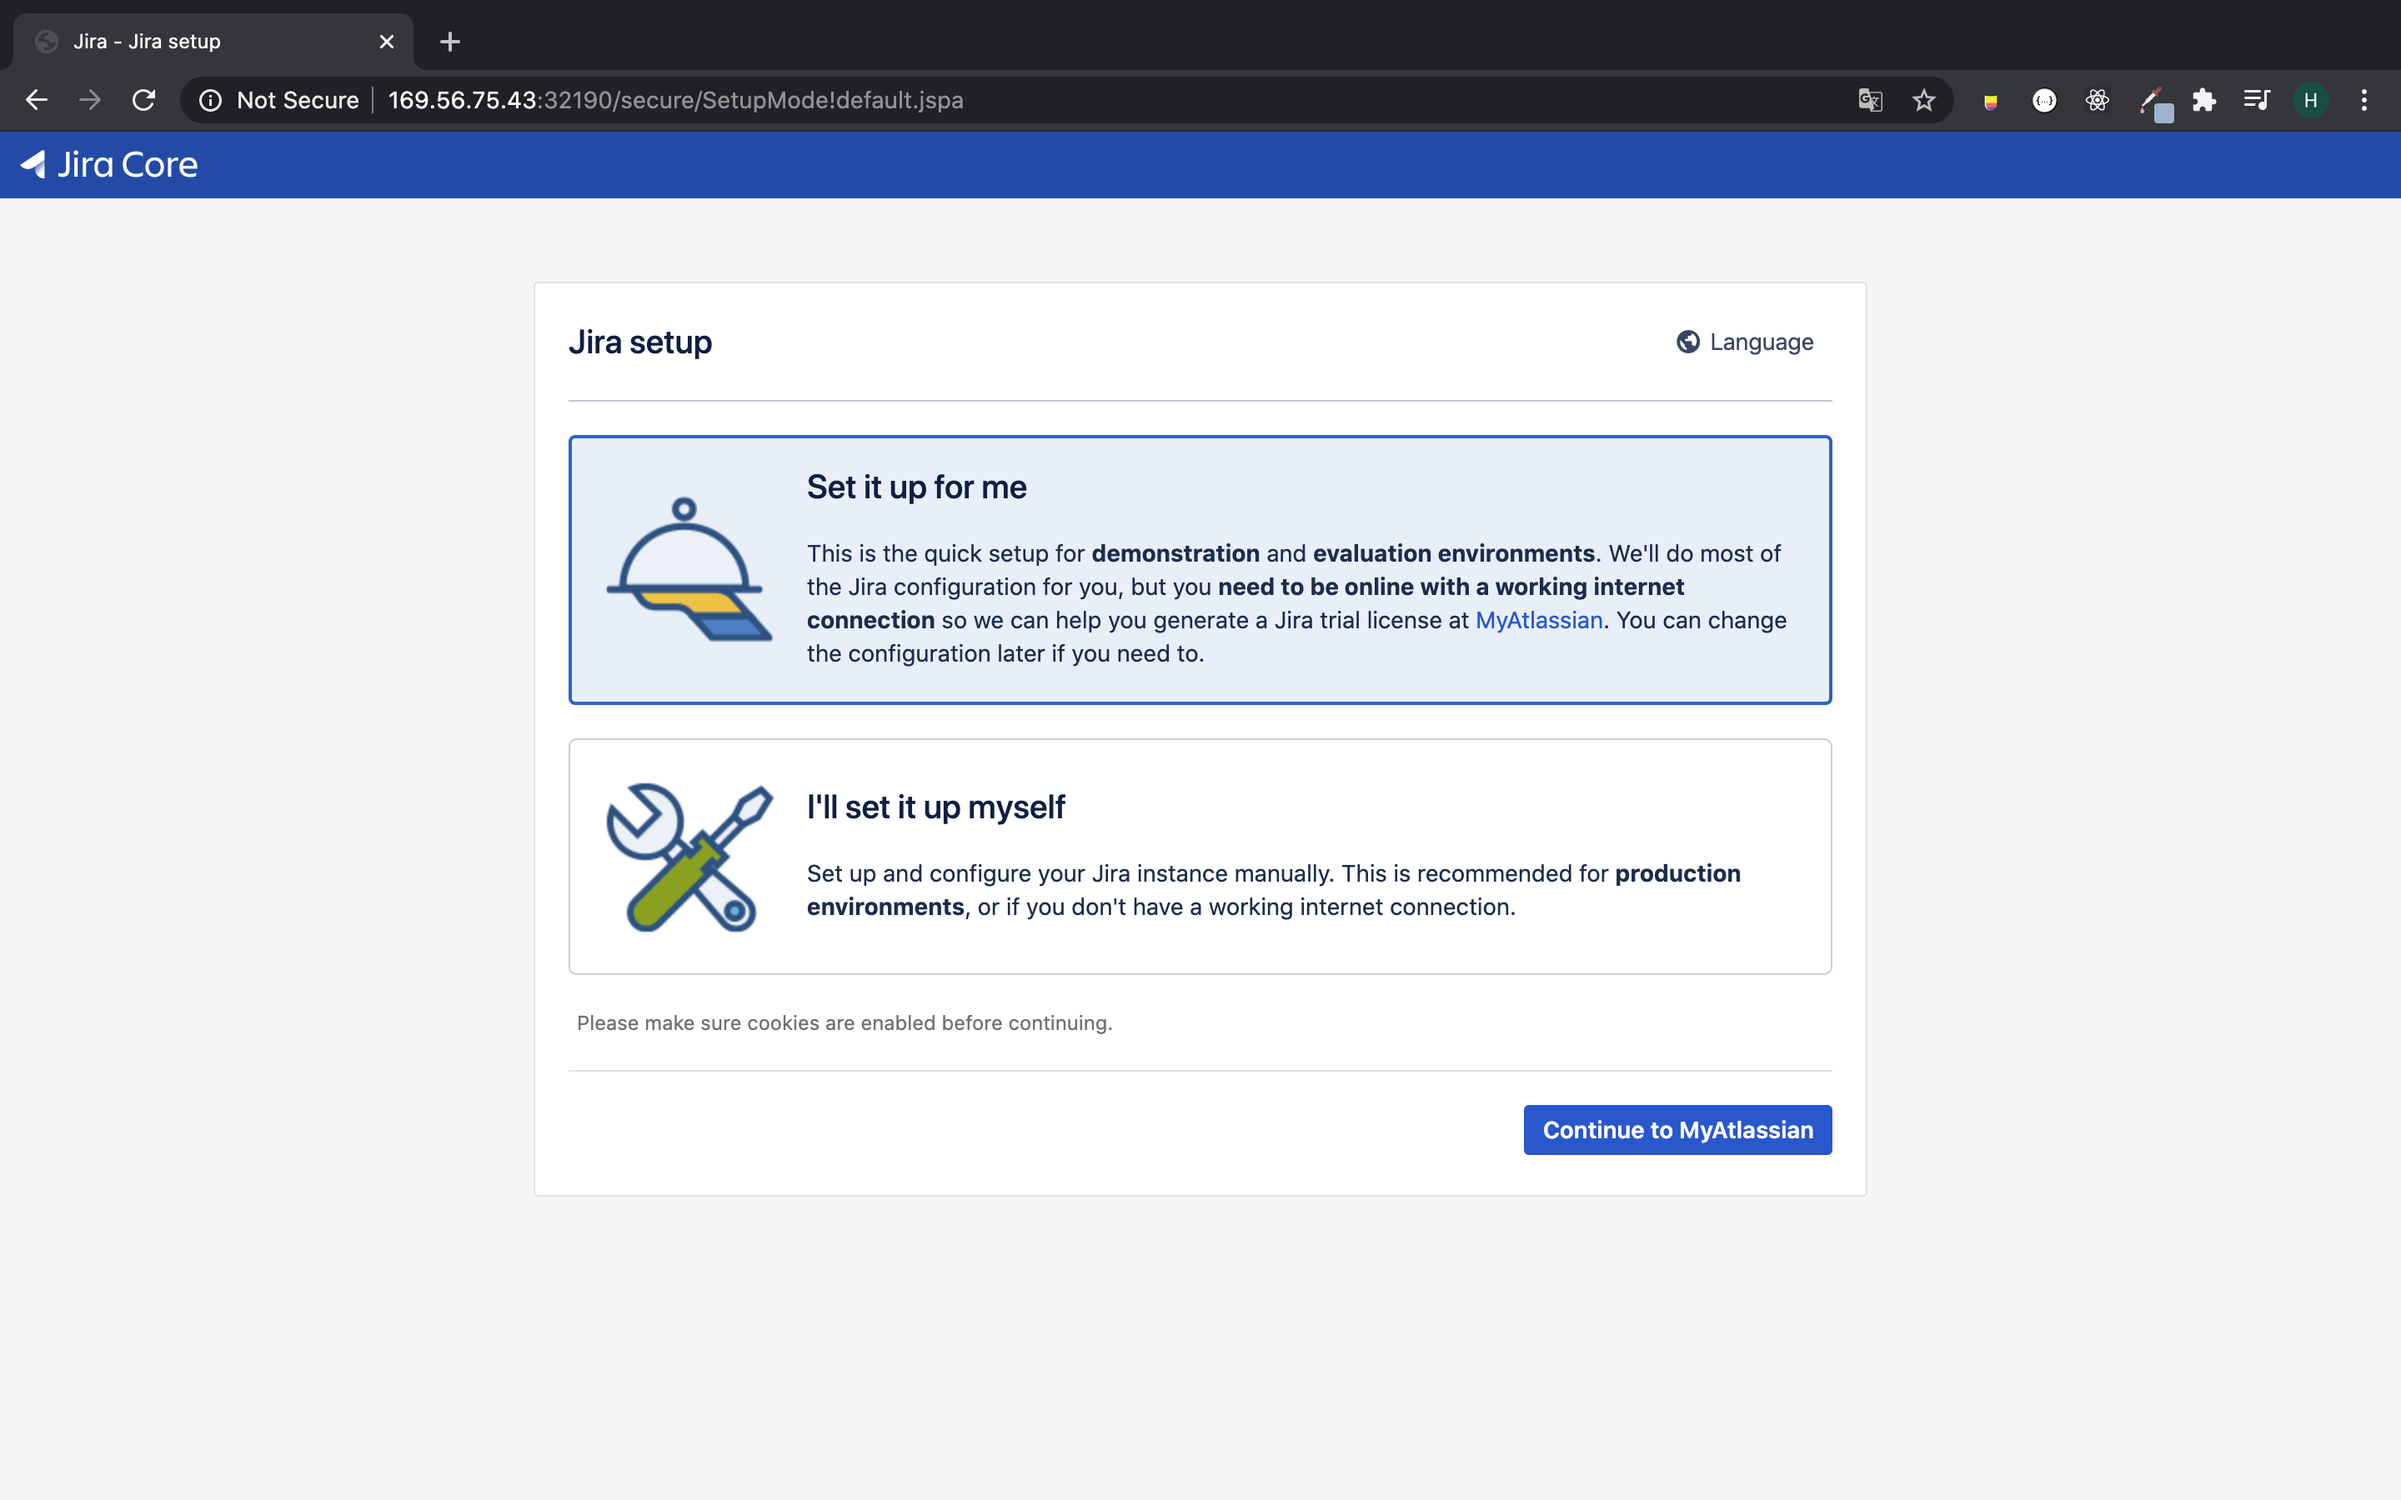
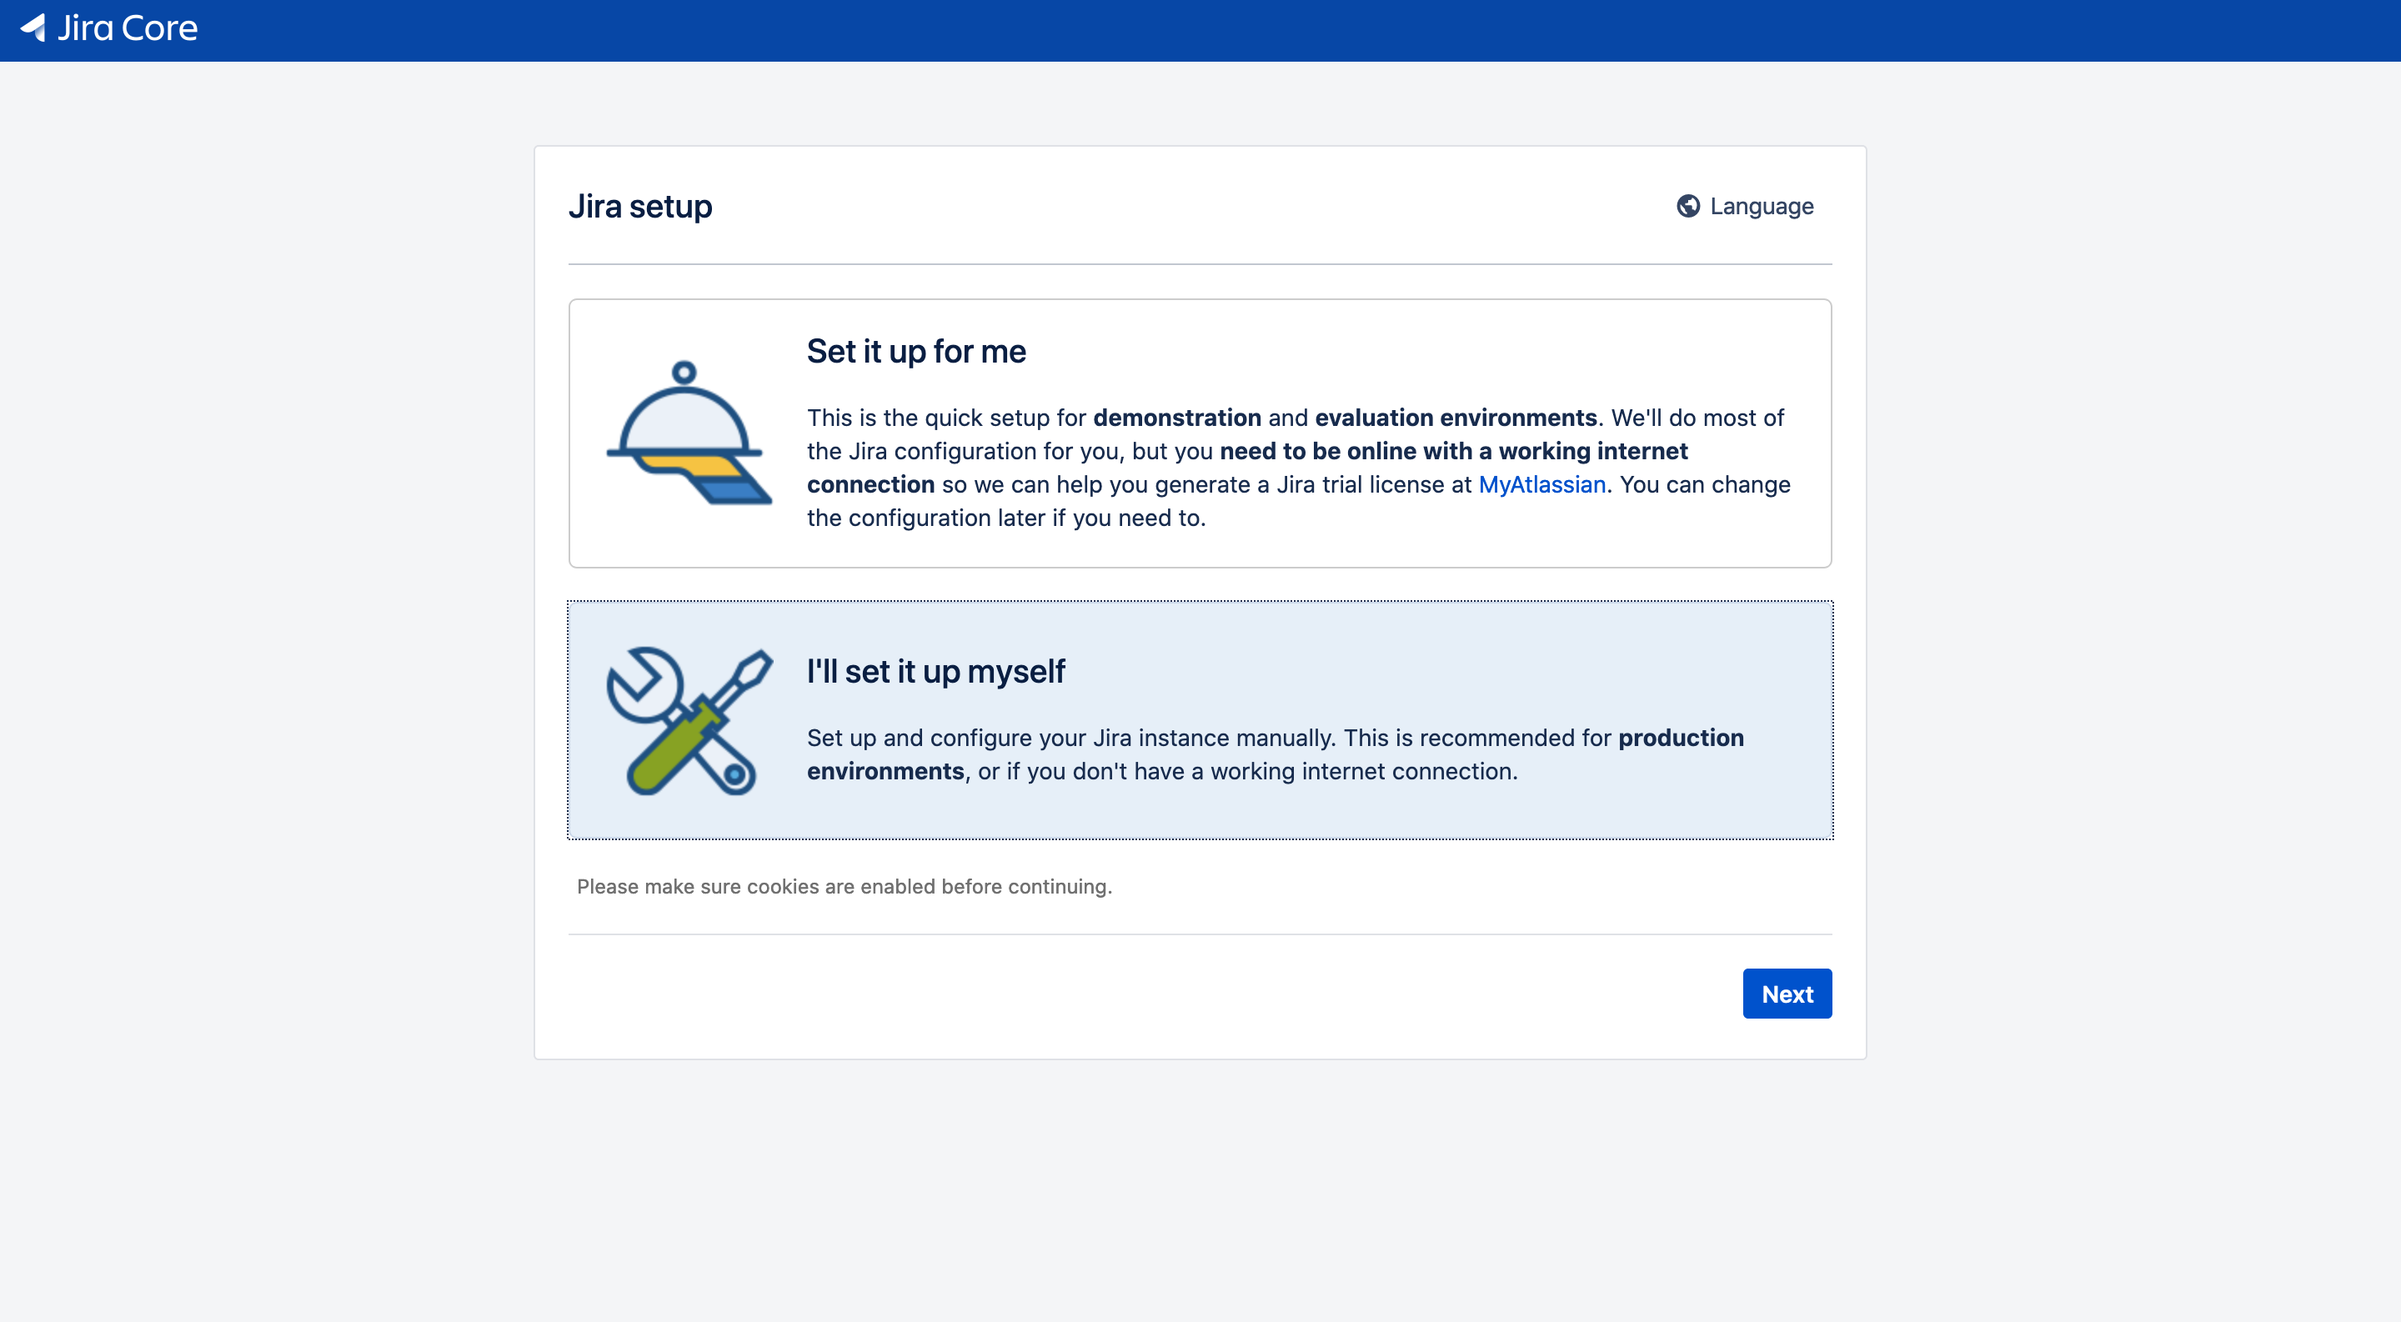
Add: Jira install post

diff --git a/blog/JIRA_CICD_(2).md b/blog/JIRA_CICD_(2).md
@@ -1,0 +1,44 @@
+# 쿠버네티스에서 Jira 활용한 CI/CD 파이프라인 구축하기(2/3)
+> Jira와 MySQL을 쿠버네티스에 올리고, Gitlab 및 Jenkins를 연동해 CI/CD 파이프라인을 구성합니다. 
+
+## Part 2. Jira 초기 설정하기
+
+먼저 설정 첫 화면에서 `I'll set it up myself`를 선택해 진행하겠습니다. 
+
+![img](../image/jira_1.png)
+
+앞서 설치한 mysql을 활용하기 위해 dbconfig 정보를 수정합니다. 
+jira pod에 shell 접속을 시도한다.
+```bash
+kubectl exec -it {jira pod 이름} bash
+```
+vim 편집기 이용을 위해 설치한다.
+```bash
+apt-get update
+apt-get install -y vim
+```
+`dbconfig.xml` 파일에 db 설정값을 집어넣습니다.
+```xml
+<url>jdbc:mysql://169.56.75.38:3306/jiradb?useUnicode=true&amp;characterEncoding=UTF8&amp;sessionVariables=default_storage_engine=InnoDB</url>
+<username>root</username>
+<password>{your password}</password>
+```
+
+jira 초기 설정 url에 접속해 자동으로 db 설정을 진행합니다. 자동 설정이 완성되면, jira software를 설치하기 위한 라이센스 등록을 진행합니다. 
+
+![img](../image/jira_2.png)
+
+테스트용 라이센스를 등록하기 위해서는 아틀라시안 계정을 생성하거나, 기존 계정에 로그인해야 합니다. 
+![img](../image/jira_3.png)
+
+![img](../image/jira_4.png)
+
+라이센스를 발급받은 주소를 확인하면 저절로 붙여넣기가 실행됩니다. 
+
+관리자 정보를 입력하고 설정을 완료합니다. 
+
+![img](../image/jira_5.png)
+
+사용할 언어와 아바타를 선택하고 jira 설치 과정을 마무리합니다!
+
+![img](../image/jira_6.png)
